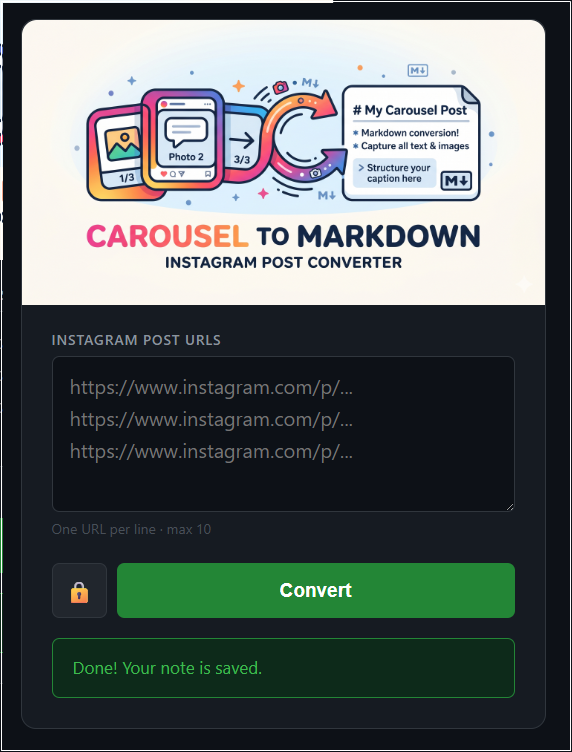
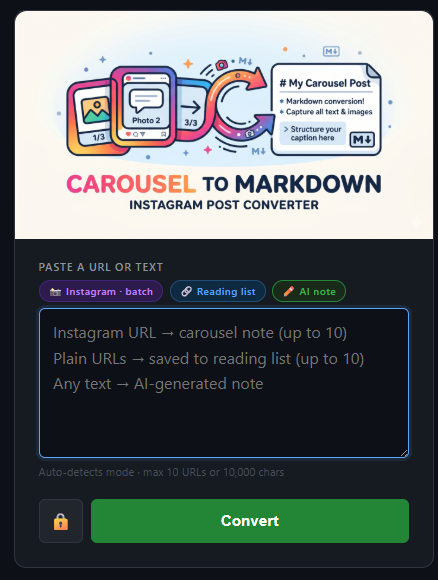
Update README.md and 1 more files

diff --git a/README.md b/README.md
@@ -1,16 +1,26 @@
 ![cover](docs/cover.png)
 # INSTA_TO_MD_BOT
 
-Paste an Instagram URL and get a fully-structured Obsidian note - AI-extracted text, title, tags, summary, and auto-filed by topic - pushed to your private repo in ~2 minutes.
+Paste a URL or text into the form. The bot saves it as a neat `.md` note to your private repo.
 
 **Live app:** https://wsnh2022.github.io/insta2mdbot/
 ![frontend_snap](docs/frontend_snap.png)
 
 ---
 
-## What it does
+## What this does
 
-Paste any Instagram post URL → the app downloads every slide of the carousel, extracts all meaningful text using a vision AI model, and saves a formatted `.md` note to a private GitHub repository. Takes about 2 minutes per post.
+You paste something into the bot. It turns it into a neat `.md` note and saves it here.
+
+| You paste | What happens |
+|---|---|
+| Instagram URL | Bot pulls every slide from the carousel and saves as a structured note |
+| Any website URL | Link saved to your reading list (`pending-to-read.md`) |
+| Your own text | AI reads it, summarizes it, and saves as a structured note |
+
+Every note gets a title, tags, source link, and date, automatically.
+
+### Details
 
 - Paste URLs with or without tracking params (`?utm_source=...`) - they are stripped automatically
 - Handles carousels, single images, and mixed layouts
